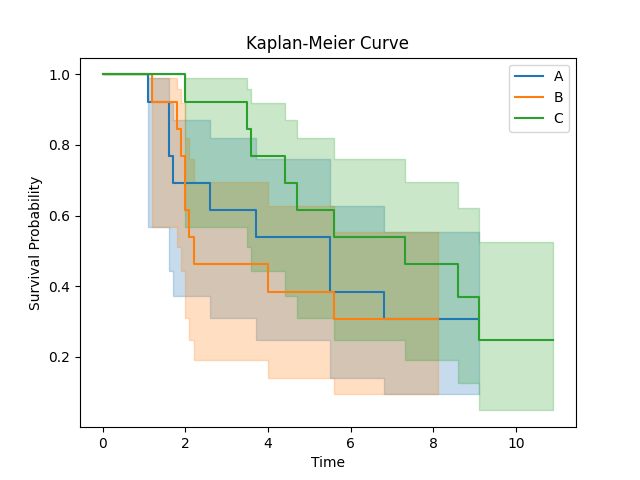
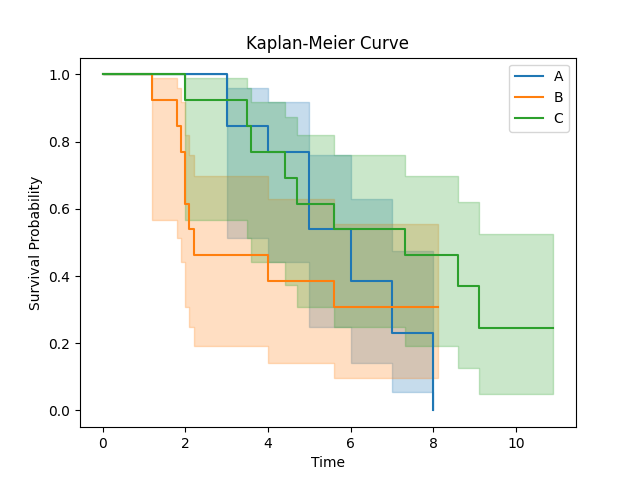
code amended to allow user input for new data to up-date the KM plot

diff --git a/run.py b/run.py
@@ -24,8 +24,38 @@ def get_data_from_sheet():
     df = pd.DataFrame(data)
     return df
 
+# Prompt user for new data input
+new_data = input("Please enter new survival data")
+new_data_a = []
+new_data_b = []
+new_data_c = []
+
+for i in range(13):
+    time_a = input("Enter Time for Group A:")
+    event_a = input("Enter Event for Group A:")
+    new_data_a.append((time_a, event_a))
+
+    time_b = input("Enter Time for Group B:")
+    event_b = input("Enter Event for Group B:")
+    new_data_b.append((time_b, event_b))
+
+    time_c = input("Enter Time for Group C:")
+    event_c = input("Enter Event for Group C:")
+    new_data_c.append((time_c, event_c))
+
+# Validate user input (eg., check for valid data types, decimal places, etc.)
+
+
 #Load the data from the Google Excel sheet into a DataFrame
 data = get_data_from_sheet()
+
+# Replace existing data with new user input:
+for i in range(13):
+    data.loc[(data['Group'] == 'A') & (data.index ==i), ['Time', 'Event']] = [float(new_data_b[i][0]),bool(new_data_b[i][0])]
+    data.loc[(data['Group'] == 'B') & (data.index ==i), ['Time', 'Event']] = [float(new_data_b[i][0]),bool(new_data_b[i][0])]
+    data.loc[(data['Group'] == 'C') & (data.index ==i), ['Time', 'Event']] = [float(new_data_b[i][0]),bool(new_data_b[i][0])]
+
+
 
 # Create the Kaplan-Meier object and fit the data
 kmf = KaplanMeierFitter()
